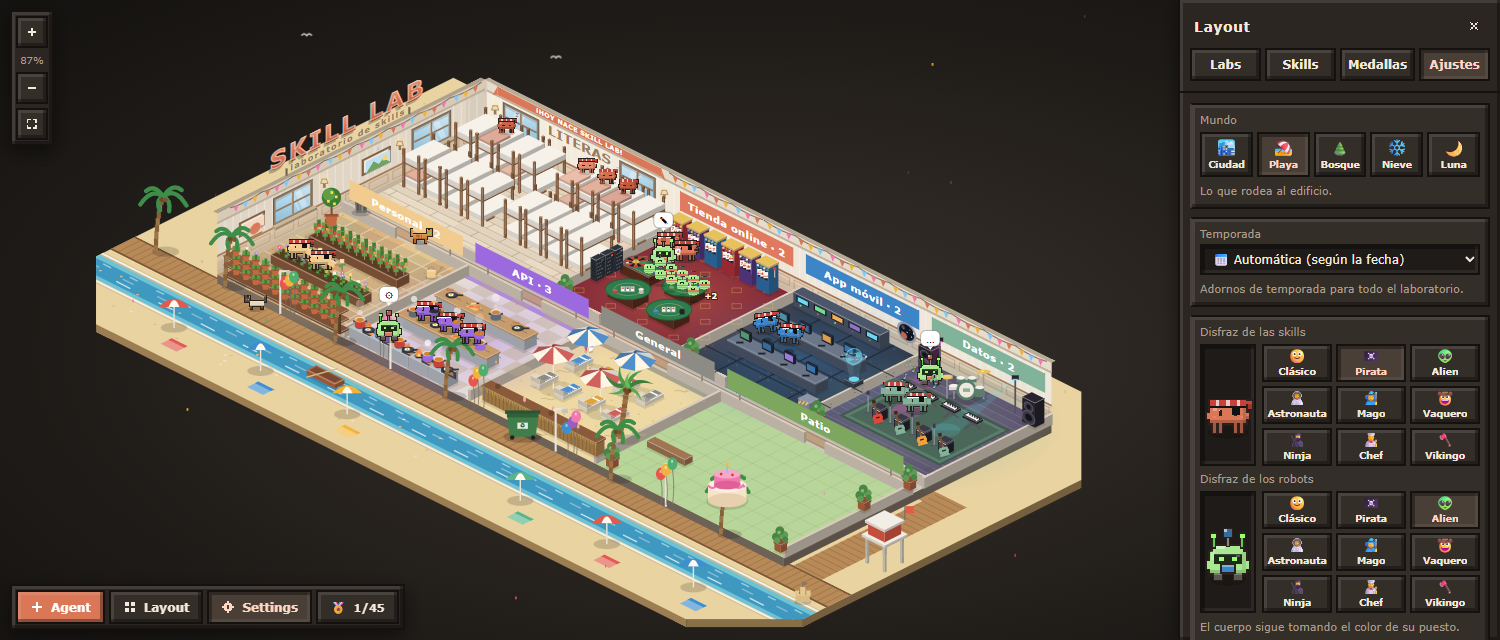
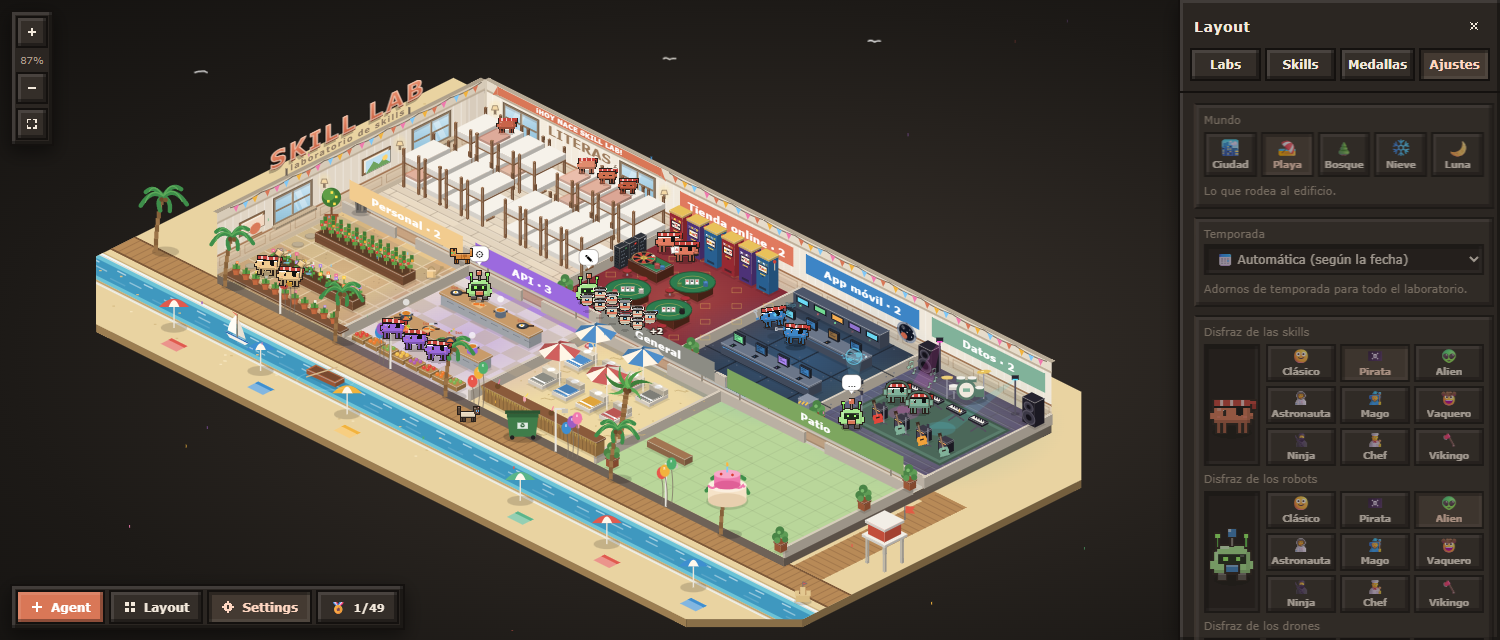
[Skill Lab] Release 1.1.0 with drone costumes, Wally and Santa medals

diff --git a/src/extension.ts b/src/extension.ts
@@ -26,9 +26,9 @@ let freshInstall = false
 // Preferences edited from the panel live in globalState: writing VS Code settings can fail silently
 // (a settings.json the editor refuses to touch), and then nothing the panel changed would stick.
 let prefs: vscode.Memento | undefined
-const PANEL_PREFS = ['sound', 'showPet', 'watchAllSessions', 'skipPermissions', 'cats', 'clockMode', 'skillSkin', 'agentSkin', 'season']
+const PANEL_PREFS = ['sound', 'showPet', 'watchAllSessions', 'skipPermissions', 'cats', 'clockMode', 'skillSkin', 'agentSkin', 'droneSkin', 'season']
 
-const skin = (key: 'skillSkin' | 'agentSkin'): Skin => {
+const skin = (key: 'skillSkin' | 'agentSkin' | 'droneSkin'): Skin => {
   const v = setting<string>(key, 'clasico')
   return SKINS.includes(v as Skin) ? (v as Skin) : 'clasico'
 }
@@ -160,7 +160,7 @@ class LabView implements vscode.WebviewViewProvider {
   <button class="primary" data-act="newAgent" title="Lanzar Claude Code en una carpeta"><svg viewBox="0 0 16 16"><path d="M7 2h2v5h5v2H9v5H7V9H2V7h5z"/></svg>Agent</button>
   <button data-act="layout" data-tab="labs" title="Editar labs y skills"><svg viewBox="0 0 16 16"><path d="M2 2h5v5H2zm7 0h5v5H9zM2 9h5v5H2zm7 0h5v5H9z"/></svg>Layout</button>
   <button data-act="layout" data-tab="settings" title="Ajustes"><svg viewBox="0 0 16 16"><path d="M7 1h2v2h2v2h2v2h2v2h-2v2h-2v2H9v2H7v-2H5v-2H3V9H1V7h2V5h2V3h2zm0 5v4h2V6z"/></svg>Settings</button>
-  <button data-act="layout" data-tab="medals" title="Medallas: los easter eggs que has encontrado">🏅 <span class="count">0/47</span></button>
+  <button data-act="layout" data-tab="medals" title="Medallas: los easter eggs que has encontrado">🏅 <span class="count">0/49</span></button>
 </div>
 <aside id="drawer" class="panel" aria-hidden="true">
   <header><h2>Layout</h2><button class="icon ghost" data-act="close" title="Cerrar"><svg viewBox="0 0 16 16"><path d="M3 3h2v2h2v2h2V5h2V3h2v2h-2v2h-2v2h2v2h2v2h-2v-2h-2V9H7v2H5v2H3v-2h2V9h2V7H5V5H3z"/></svg></button></header>
@@ -184,7 +184,7 @@ class LabView implements vscode.WebviewViewProvider {
     const night = darkness(new Date(now), clockMode()) >= 0.5
     const cats = catList()
     const services = monitor?.status ?? {}
-    const skins = { skillSkin: skin('skillSkin'), agentSkin: skin('agentSkin'), season: setting<string>('season', 'auto') }
+    const skins = { skillSkin: skin('skillSkin'), agentSkin: skin('agentSkin'), droneSkin: skin('droneSkin'), season: setting<string>('season', 'auto') }
     const signature = JSON.stringify([roster, crew, agents, LABS.map(l => [l.name, l.accent, l.width, l.row, l.theme, l.services]), setting('showPet', true), cats, night, WORLD, services, skins])
     if (!force && signature === this.lastSignature) return
     this.lastSignature = signature
@@ -231,6 +231,7 @@ class LabView implements vscode.WebviewViewProvider {
         skipPermissions: setting('skipPermissions', false),
         skillSkin: skin('skillSkin'),
         agentSkin: skin('agentSkin'),
+        droneSkin: skin('droneSkin'),
         season: setting<string>('season', 'auto'),
       },
     }
@@ -459,7 +460,7 @@ class LabView implements vscode.WebviewViewProvider {
           await setPref('cats', cats)
         } else if (msg.key === 'clockMode' && ['auto', 'day', 'night'].includes(msg.value)) {
           await setPref('clockMode', msg.value)
-        } else if ((msg.key === 'skillSkin' || msg.key === 'agentSkin') && SKINS.includes(msg.value)) {
+        } else if ((msg.key === 'skillSkin' || msg.key === 'agentSkin' || msg.key === 'droneSkin') && SKINS.includes(msg.value)) {
           await setPref(msg.key, msg.value)
         } else if (msg.key === 'season' && (SEASONS as readonly string[]).includes(msg.value)) {
           await setPref('season', msg.value)

diff --git a/media/main.js b/media/main.js
@@ -334,13 +334,29 @@
   })
 
   function click(e) {
-    const hit = pick(e, '[data-skill],[data-session],[data-lab],[data-pet],[data-bag],[data-slot]')
+    const hit = pick(e, '[data-egg],[data-skill],[data-session],[data-lab],[data-pet],[data-bag],[data-slot]')
     if (!hit) return
+    if (hit.dataset.egg) return eggClick(hit, e)
     if (hit.dataset.slot) return playSlot(hit)
     if (hit.dataset.lab) return openDrawer('labs', hit.dataset.lab)
     if (hit.dataset.bag) return floatText(scenePoint(e), '🪰 ¡a la papelera!')
     if (hit.dataset.pet !== undefined) catClicks(hit, e)
     flashTag(keyOf(hit))
+  }
+
+  // hidden characters: Wally among the strollers, Santa crossing the Christmas night sky
+  function eggClick(hit, e) {
+    const p = scenePoint(e)
+    if (hit.dataset.egg === 'wally') {
+      floatText(p, '🔍 ¡Encontrado Wally!', 'big')
+      beep([659, 784, 988], 0.09)
+      return unlock('wally')
+    }
+    if (hit.dataset.egg === 'santa') {
+      floatText(p, '🎅 ¡Jo, jo, jo!', 'big')
+      beep([392, 494, 587, 784], 0.1)
+      return unlock('santa')
+    }
   }
 
   // casino slot machines: a click spins three reels over the machine; 777 is the jackpot (1 in 27)
@@ -1763,6 +1779,8 @@
     ['down', '🚨', 'Alerta roja', 'Pilla un servidor caído', 'world'],
     ['slot777', '🎰', 'Triple siete', 'Saca 777 en una tragaperras del casino', 'eggs'],
     ['slot50', '🪙', 'Ludópata', 'Juega 50 tiradas en la tragaperras', 'eggs'],
+    ['wally', '🔍', '¿Dónde está Wally?', 'Encuentra a Wally entre los paseantes y pínchale', 'eggs'],
+    ['santa', '🎅', 'Jo, jo, jo', 'Pincha a Papá Noel cuando cruce el cielo en Navidad', 'eggs'],
     ['all', '🏆', 'Coleccionista', 'Consigue todas las demás medallas', 'eggs'],
   ]
 
@@ -1923,6 +1941,7 @@
         <small class="muted">Adornos de temporada para todo el laboratorio.</small></section>
       <section class="card plain look"><span class="field"><span>Disfraz de las skills</span></span>${skinPicker('skill', 'skillSkin', 'ca', '#D97757')}
         <span class="field"><span>Disfraz de los robots</span></span>${skinPicker('agent', 'agentSkin', 'ag', '#3D85C6')}
+        <span class="field"><span>Disfraz de los drones</span></span>${skinPicker('drone', 'droneSkin', 'sd0', '#3D85C6')}
         <small class="muted">El cuerpo sigue tomando el color de su puesto.</small></section>
       <section class="card plain">
         <label class="field"><span>Vuelta a la litera <b id="delayVal">${s.returnDelay} s</b></span>
@@ -1991,7 +2010,7 @@
         b.addEventListener('click', () => {
           const kind = pick.dataset.kind
           pick.querySelectorAll('[data-skin]').forEach(x => x.classList.toggle('on', x === b))
-          vscode.postMessage({ type: 'setSetting', key: kind === 'skill' ? 'skillSkin' : 'agentSkin', value: b.dataset.skin })
+          vscode.postMessage({ type: 'setSetting', key: kind === 'skill' ? 'skillSkin' : kind === 'agent' ? 'agentSkin' : 'droneSkin', value: b.dataset.skin })
           emit('skin', { kind, skin: b.dataset.skin })
         }),
       ),

diff --git a/tools/labdemo.ts b/tools/labdemo.ts
@@ -54,10 +54,10 @@ const model = {
   seasons: SEASONS,
   seasonNames: SEASON_NAMES,
   seasonWhen: SEASON_WHEN,
-  settings: { ...oldModel.settings, cats, skillSkin: 'pirata', agentSkin: 'alien', season: 'auto' },
+  settings: { ...oldModel.settings, cats, skillSkin: 'pirata', agentSkin: 'alien', droneSkin: 'vikingo', season: 'auto' },
 }
 for (const night of [false, true]) {
-  const r = renderScene({ roster, crew, agents: agents as any, now, pet: true, cats: cats as any, night, services: { 'https://a.example': { up: true, code: 200, ms: 120 }, 'https://b.example': { up: false, code: 502 } }, skillSkin: 'pirata', agentSkin: 'alien', season: 'auto' })
+  const r = renderScene({ roster, crew, agents: agents as any, now, pet: true, cats: cats as any, night, services: { 'https://a.example': { up: true, code: 200, ms: 120 }, 'https://b.example': { up: false, code: 502 } }, skillSkin: 'pirata', agentSkin: 'alien', droneSkin: 'vikingo', season: 'auto' })
   const msg = { type: 'scene', svg: r.svg, geo: r.geo, clockMode: night ? 'night' : 'day', stats: { asleep: r.asleep, working: r.working, strolling: r.strolling, sessions: r.sessions } }
   const extra = night ? '' : `setTimeout(()=>{const t=location.hash.slice(1);if(t)document.querySelector('[data-act=layout][data-tab=labs]').click();if(t&&t!=='layout')setTimeout(()=>document.querySelector('#drawer nav [data-tab='+t+']').click(),200)},800);`
   fs.writeFileSync(`${out}/${night ? 'night' : 'day'}.html`, `${head}

diff --git a/media/main.css b/media/main.css
@@ -431,3 +431,6 @@ button.palette .chips i { flex: 1; }
 }
 @keyframes fadeout { 0%, 60% { opacity: 1; } 100% { opacity: 0; } }
 @keyframes toastfade { 0% { opacity: 0; transform: translateX(-50%); } 10%, 85% { opacity: 1; transform: translateX(-50%); } 100% { opacity: 0; transform: translateX(-50%); } }
+
+/* Santa only shows at night: by day he cannot be clicked either */
+#world:not(.night) #scene [data-egg="santa"] { pointer-events: none; }

diff --git a/README.md b/README.md
@@ -12,17 +12,17 @@
 - **Servidores con piloto.** Cada puesto puede mostrar los servicios desplegados de su proyecto como armarios: luz verde si responden, roja si se han caído. Al pasar el ratón sale su nombre.
 - **Cinco mundos.** El edificio puede estar en la ciudad, en la playa, en el bosque, en la nieve o en la Luna.
 - **Temporadas.** Halloween, Navidad, Nochevieja, Reyes, Carnaval, San Valentín, San Fermín, las cuatro estaciones… se ponen solas según la fecha, o eliges una.
-- **Disfraces y colores.** Pirata, alien, astronauta, mago, vaquero, ninja, chef o vikingo, para los muñecos y para los robots. Seis paletas para los carteles: cálidos, pasteles, multicolor, fríos, neón y tierra.
+- **Disfraces y colores.** Pirata, alien, astronauta, mago, vaquero, ninja, chef o vikingo, por separado para los muñecos, los robots y los drones. Seis paletas para los carteles: cálidos, pasteles, multicolor, fríos, neón y tierra.
 - **Día y noche, avisos y gatos.** La luz sigue la hora real, suena un aviso cuando Claude termina o espera permiso, y los gatos reaccionan a cada sala en la que los sueltes.
-- **47 medallas** escondidas para quien las encuentre. Pista: en el casino hay tragaperras de verdad.
+- **49 medallas** escondidas para quien las encuentre. Pistas: en el casino hay tragaperras de verdad, Wally sale a pasear algunas horas y en Navidad Papá Noel cruza el cielo de noche.
 
 ![El mismo laboratorio de noche](images/night.png)
 
 ## Instalación
 
-1. Descarga `skill-lab-1.0.2.vsix` de la última [release](https://github.com/AlvaroMDX/skill-lab/releases/latest).
+1. Descarga `skill-lab-1.1.0.vsix` de la última [release](https://github.com/AlvaroMDX/skill-lab/releases/latest).
 2. En VS Code: **Extensiones → ··· → Install from VSIX…** y elige el fichero.
-   También desde un terminal: `code --install-extension skill-lab-1.0.2.vsix`.
+   También desde un terminal: `code --install-extension skill-lab-1.1.0.vsix`.
 3. Recarga la ventana (**Developer: Reload Window**).
 
 Para compilarla desde el código:

diff --git a/CHANGELOG.md b/CHANGELOG.md
@@ -1,5 +1,14 @@
 # Cambios
 
+## 1.1.0 — 2026-10-22
+- Personajes con paso de verdad (patas alternas y bote por paso), miran hacia donde andan, llegan y salen de su puesto sin saltos y respiran al dormir; gatos que no patinan, robots que teclean y drones con hélice sincronizada.
+- Cada muñeco encaja en su mueble en los 13 temas y en las dos filas: en el sillín, tumbado en el banco de pesas o en la tumbona, sentado a su mesa, ante su tragaperras… con animaciones de trabajo a su ritmo.
+- Mundos y temporadas sincronizados con el reloj: las travesías (Reyes, toro de San Fermín, Papá Noel…) ya cruzan enteras aunque se redibuje la escena. Olas, nieve, árboles, rover y fuegos artificiales más finos.
+- El vehículo que asusta al gato depende del mundo: coche en la ciudad, lancha en la playa, tractor en el bosque, moto de nieve y rover en la Luna.
+- Zoom suave centrado en el puntero, mapa con inercia y arrastre con balanceo, sombra y rebote; respeta reducir movimiento.
+- Disfraz propio para los drones, menos personajes paseando a la vez (máx. 4 skills y 2 robots) y medallas de Wally y Papá Noel (49 en total).
+- Arreglo: la sesión ya no se va a General cuando sus agentes en segundo plano trabajan en otra carpeta.
+
 ## 1.0.2 — 2026-10-22
 - Easter egg: las tragaperras del casino se pueden jugar con un clic. Saca 777 para el jackpot (medallas Triple siete y Ludópata).
 
